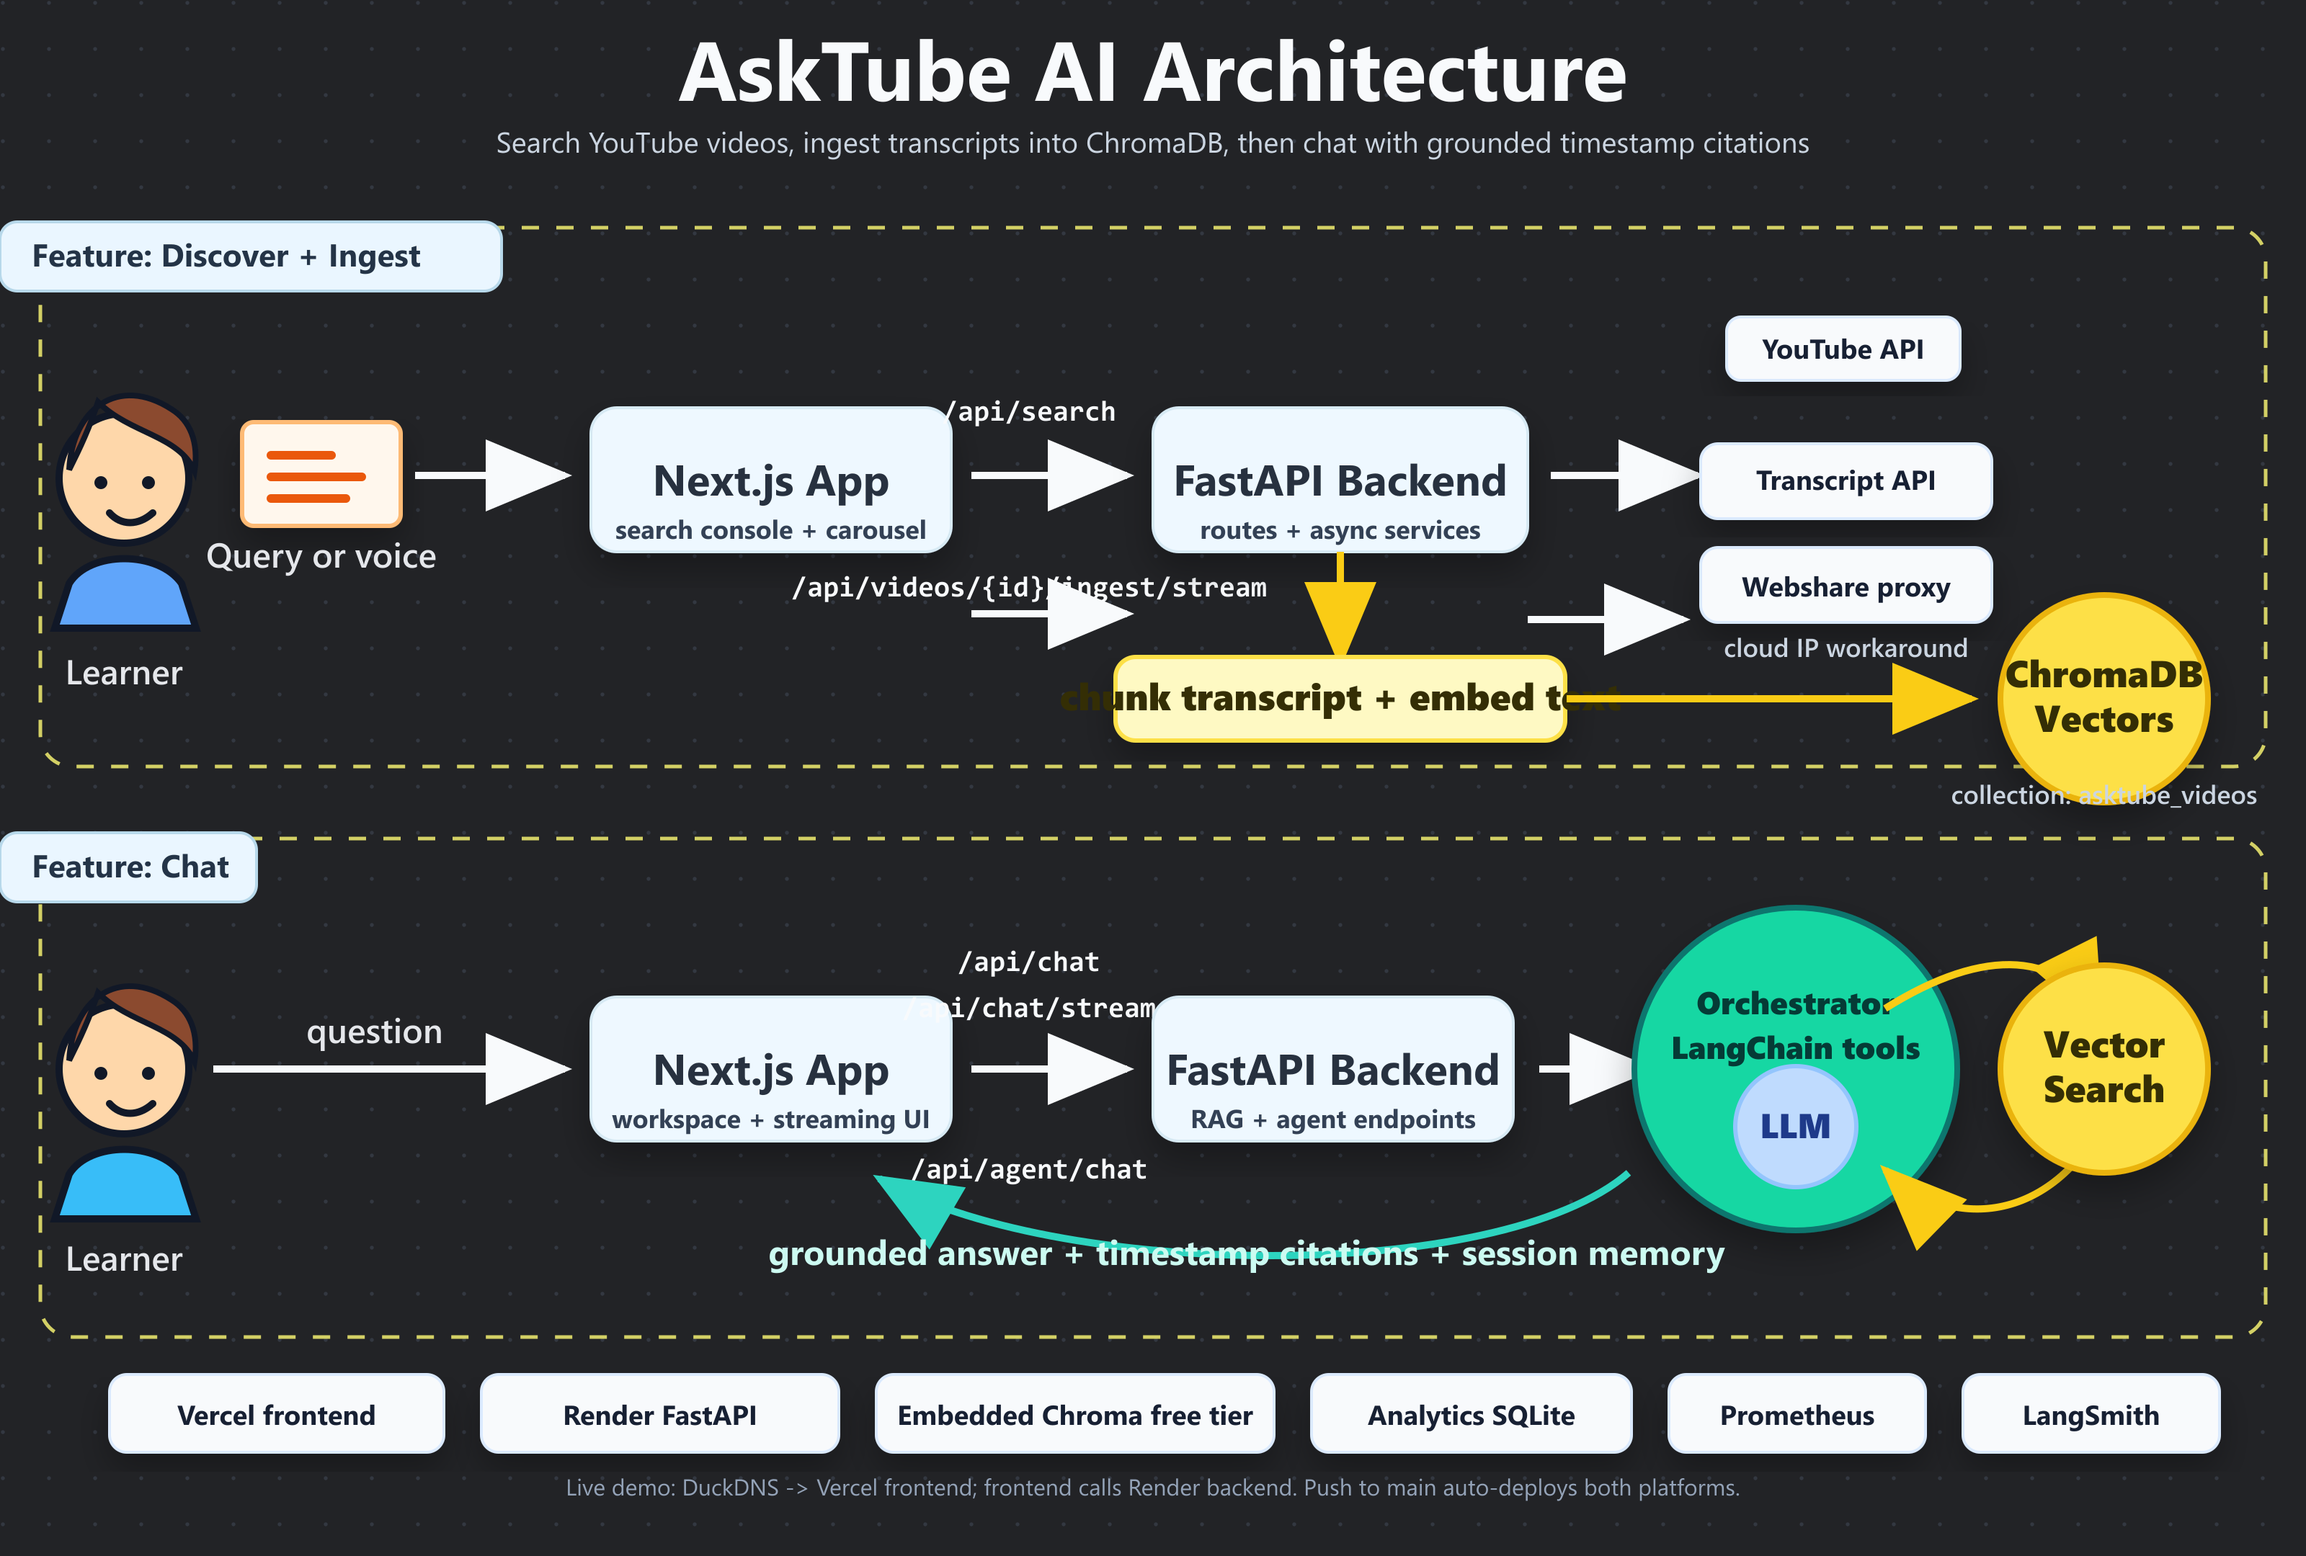
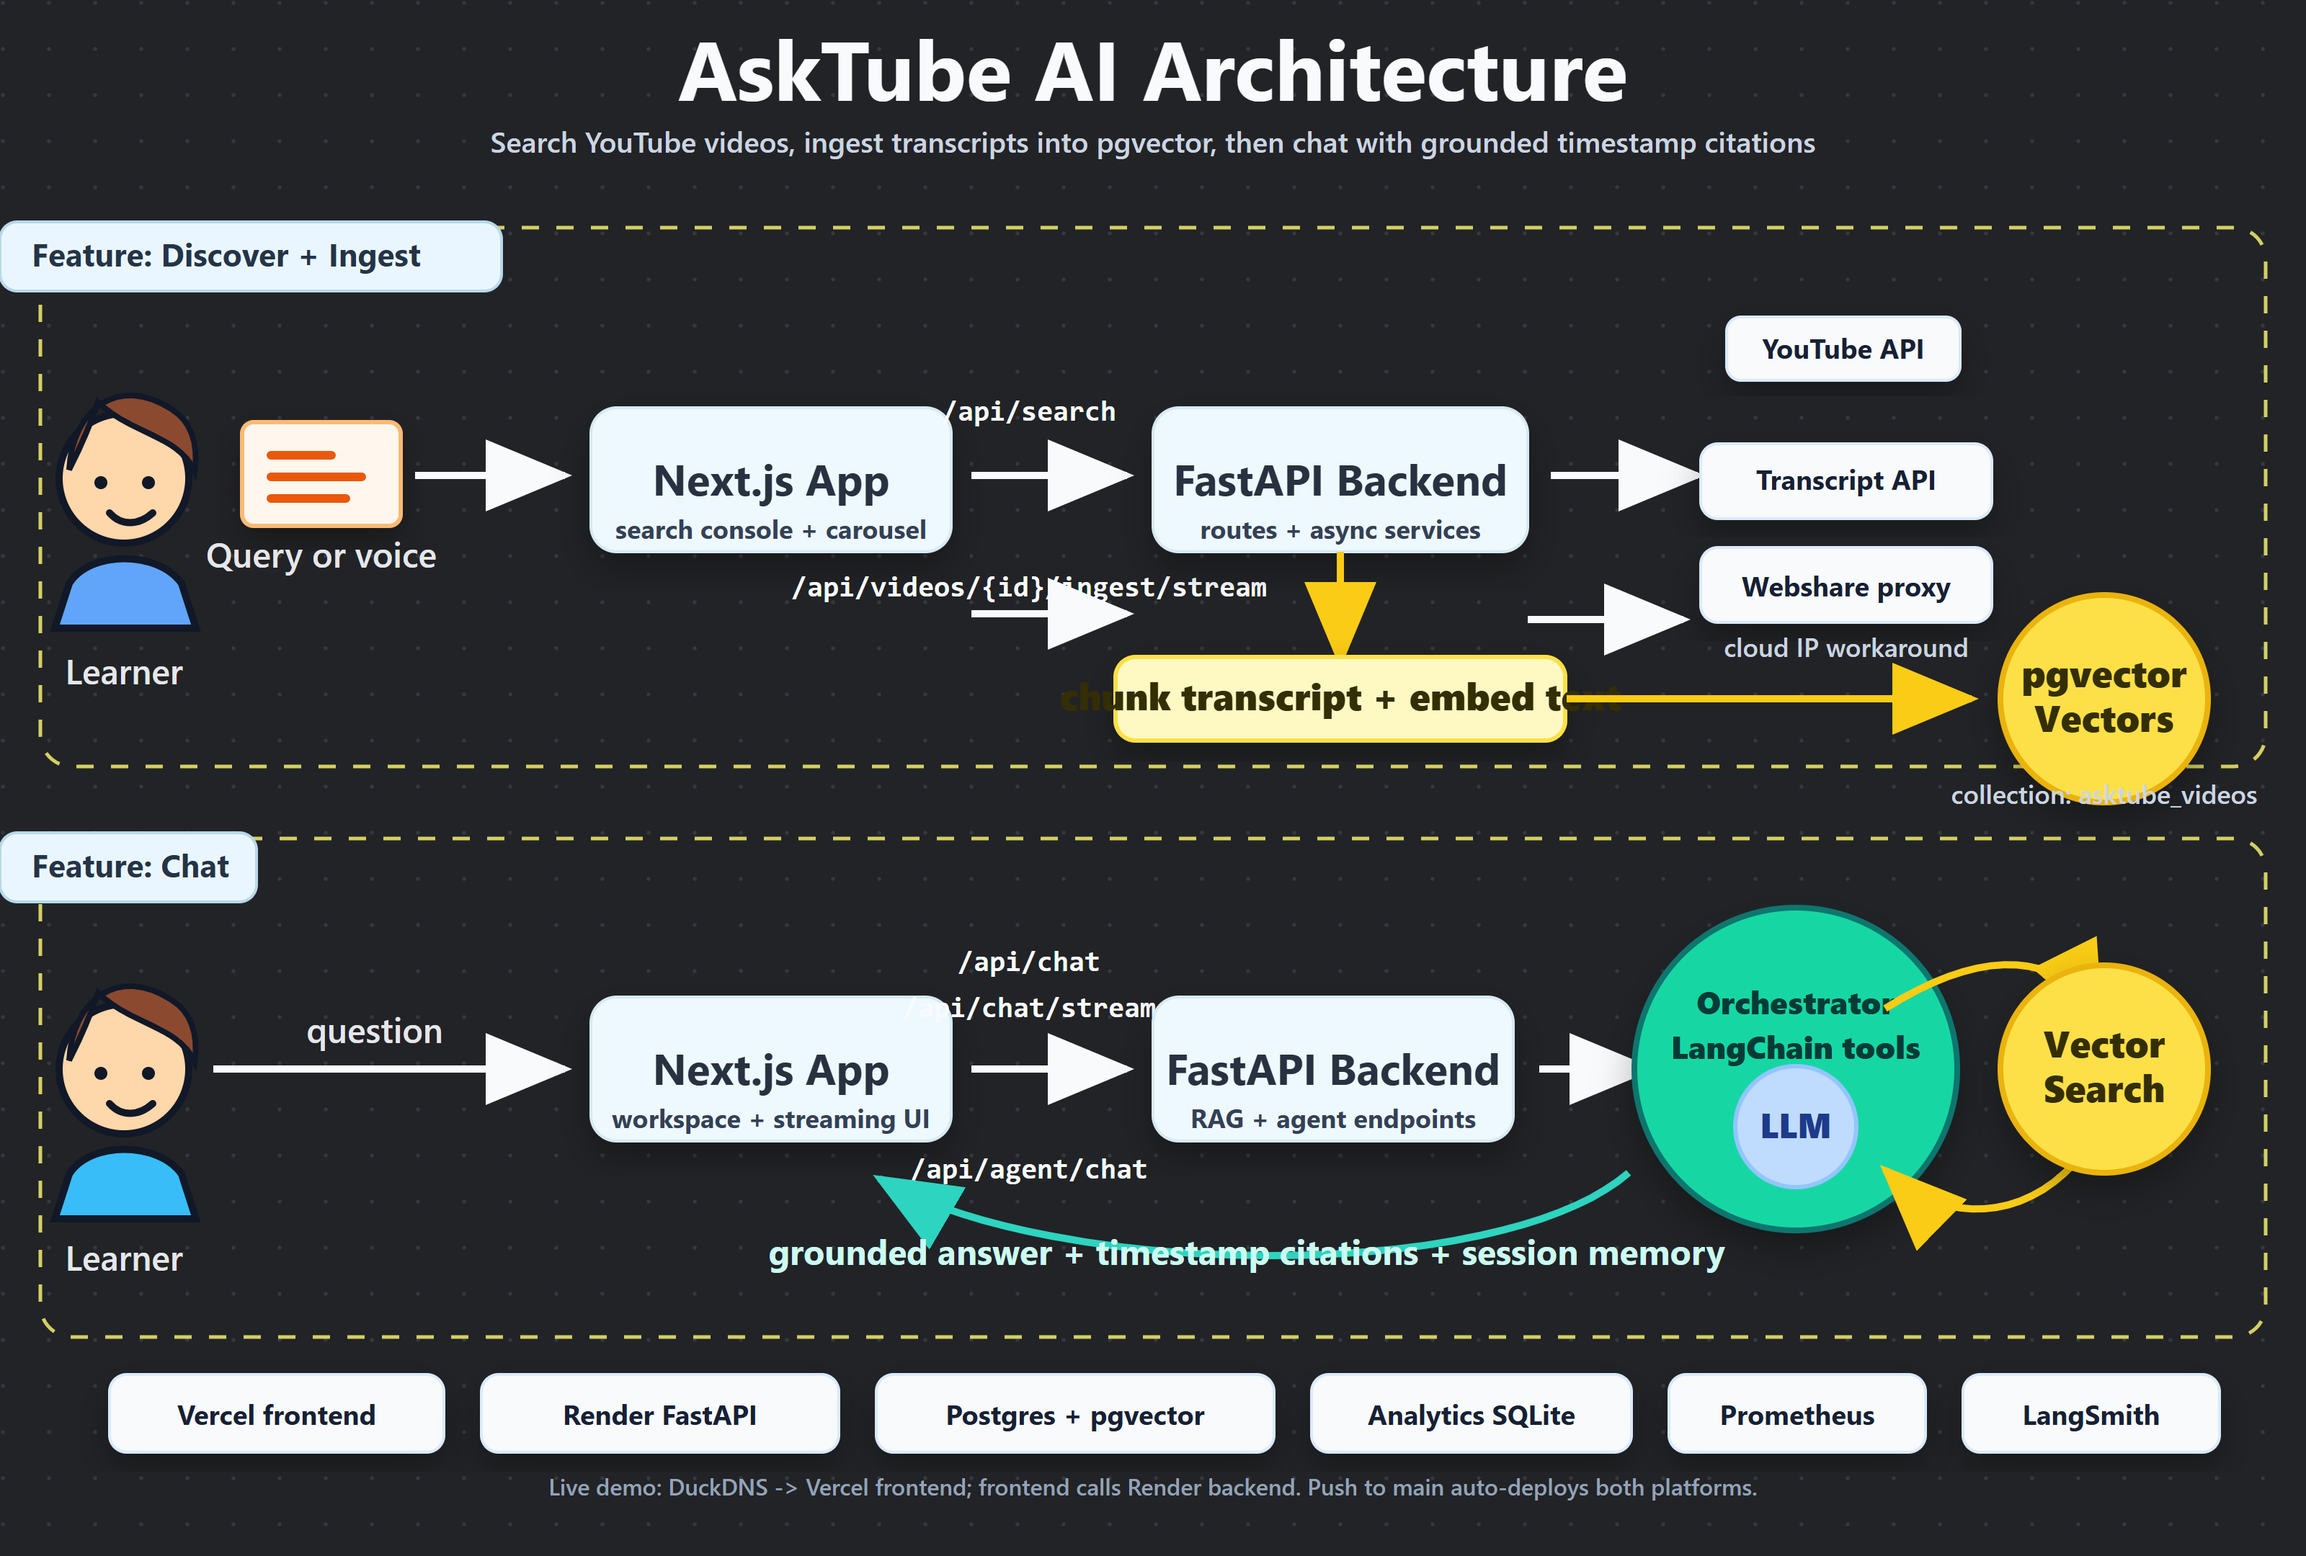
docs: correct the infographic to pgvector and make the render reproducible
The diagram still described the removed ChromaDB. Three text nodes changed:
the subtitle ("ingest transcripts into pgvector"), the store label in the
ingest lane ("pgvector"), and the deployment chip ("Postgres + pgvector",
replacing "Embedded Chroma free tier"). Asserted single-match on each, then
asserted the string "hroma" no longer appears anywhere in the file.

The PNG is a 2x raster of the SVG, so it had to be re-rendered or the two
would now disagree - which is worse than the original error, because the PNG
is the copy people actually look at.

Checked rather than assumed that the re-render is faithful:

- same dimensions, 3200x2160
- in a region containing NO intended change, mean absolute difference is
  1.5/255 and the best alignment is dx=0, dy=0 - antialiasing, not reflow
- 1.3% of pixels differ beyond a threshold of 32, concentrated on the three
  lines that were meant to change
- mode goes RGBA -> RGB, which loses nothing: the old alpha channel was 255
  everywhere, and the file is 100 KB smaller for it

render_infographic.py is added so this does not have to be rediscovered. Two
things in it are easy to get wrong and were: it must use system Chrome, since
the SVG is set in Consolas and any renderer without that font reflows every
text block, and it must render at device_scale_factor=2, since the SVG viewBox
is 1600x1080 while the committed PNG is twice that.

diff --git a/docs/render_infographic.py b/docs/render_infographic.py
@@ -1,0 +1,50 @@
+"""Re-render asktube_architecture_flow_infographic.png from the SVG.
+
+Run this after editing the SVG, or the two files drift apart silently - the PNG
+is what gets embedded in slides and READMEs, so a stale PNG is the version most
+people actually see.
+
+    cd docs && python render_infographic.py
+
+Two details are load-bearing and were not obvious:
+
+* **System Chrome, not a downloaded Chromium.** The SVG is set in Consolas, a
+  Windows font. Rendering it anywhere without Consolas silently substitutes a
+  fallback face and every text block reflows. `channel="chrome"` uses the
+  browser already installed, which also avoids a ~150 MB download.
+* **device_scale_factor=2.** The SVG's viewBox is 1600x1080; the committed PNG
+  is 3200x2160. Rendering at 1x would quietly halve the resolution of a file
+  whose whole purpose is to be legible when projected.
+
+Verified on 2026-08-10: against the previous PNG, an untouched region shows a
+mean absolute difference of 1.5/255 (antialiasing) and a best-alignment offset
+of dx=0, dy=0 - so the output is faithful, not merely similar. The mode changes
+from RGBA to RGB, which loses nothing: the old alpha channel was 255 everywhere.
+"""
+
+from pathlib import Path
+
+from playwright.sync_api import sync_playwright
+
+HERE = Path(__file__).parent
+SVG = HERE / "asktube_architecture_flow_infographic.svg"
+PNG = HERE / "asktube_architecture_flow_infographic.png"
+
+
+def main() -> None:
+    with sync_playwright() as pw:
+        browser = pw.chromium.launch(channel="chrome")
+        page = browser.new_page(
+            viewport={"width": 1600, "height": 1080},
+            device_scale_factor=2,
+        )
+        page.goto(SVG.resolve().as_uri())
+        page.wait_for_timeout(800)  # let font loading settle before capturing
+        page.screenshot(path=str(PNG), omit_background=True)
+        browser.close()
+
+    print(f"rendered {PNG.name}")
+
+
+if __name__ == "__main__":
+    main()
